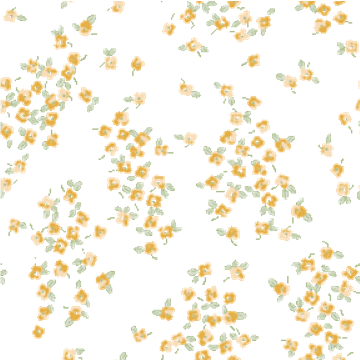
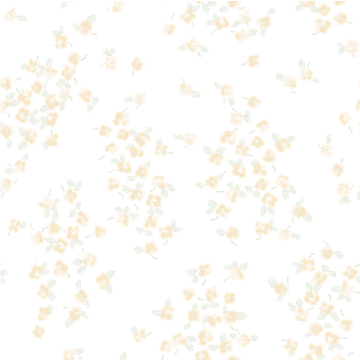
家田：画像の追加、読み込みなど

diff --git a/layouts/default.vue b/layouts/default.vue
@@ -8,22 +8,24 @@
         fixed
         app
       >
-        <v-list>
-          <v-list-item
-            v-for="(item, i) in items"
-            :key="i"
-            :to="item.to"
-            router
-            exact
-          >
-            <v-list-item-action>
-              <v-icon>{{ item.icon }}</v-icon>
-            </v-list-item-action>
-            <v-list-item-content>
-              <v-list-item-title v-text="item.title" />
-            </v-list-item-content>
-          </v-list-item>
-        </v-list>
+        <div class="drawer">
+          <v-list>
+            <v-list-item
+              v-for="(item, i) in items"
+              :key="i"
+              :to="item.to"
+              router
+              exact
+            >
+              <v-list-item-action>
+                <v-icon>{{ item.icon }}</v-icon>
+              </v-list-item-action>
+              <v-list-item-content>
+                <v-list-item-title v-text="item.title" />
+              </v-list-item-content>
+            </v-list-item>
+          </v-list>
+        </div>
       </v-navigation-drawer>
       <v-app-bar
         :clipped-left="clipped"
@@ -91,7 +93,14 @@ export default {
 
 <style lang="scss">
 .main {
+  color: $color-default;
   height: 100%;
   background-color: $color-main;
+}
+
+.drawer {
+  color: $color-default;
+  height: 100%;
+  background: top left / 360px repeat url('~assets/img/bg_flower_orange.png');
 }
 </style>

diff --git a/layouts/top.vue b/layouts/top.vue
@@ -8,22 +8,24 @@
         fixed
         app
       >
-        <v-list>
-          <v-list-item
-            v-for="(item, i) in items"
-            :key="i"
-            :to="item.to"
-            router
-            exact
-          >
-            <v-list-item-action>
-              <v-icon>{{ item.icon }}</v-icon>
-            </v-list-item-action>
-            <v-list-item-content>
-              <v-list-item-title v-text="item.title" />
-            </v-list-item-content>
-          </v-list-item>
-        </v-list>
+        <div class="drawer">
+          <v-list>
+            <v-list-item
+              v-for="(item, i) in items"
+              :key="i"
+              :to="item.to"
+              router
+              exact
+            >
+              <v-list-item-action>
+                <v-icon>{{ item.icon }}</v-icon>
+              </v-list-item-action>
+              <v-list-item-content>
+                <v-list-item-title v-text="item.title" />
+              </v-list-item-content>
+            </v-list-item>
+          </v-list>
+        </div>
       </v-navigation-drawer>
       <v-app-bar
         :clipped-left="clipped"
@@ -91,5 +93,11 @@ export default {
 .main {
   height: 100%;
   background-color: $color-main;
+}
+
+.drawer {
+  color: $color-default;
+  height: 100%;
+  background: top left / 360px repeat url('~assets/img/bg_flower_orange.png');
 }
 </style>

diff --git a/pages/index.vue b/pages/index.vue
@@ -1,6 +1,6 @@
 <template>
   <section>
-    <v-parallax src="https://cdn.vuetifyjs.com/images/backgrounds/vbanner.jpg">
+    <v-parallax src="img/dummy_mainvisual.jpg">
       <v-row align="center" justify="center">
         <v-col class="text-center" cols="12">
           <h1 class="display-1 font-weight-thin mb-4">
@@ -15,7 +15,7 @@
 
     <v-container>
       <!-- お店からのメッセージ -->
-      <v-card>
+      <v-card class="message">
         <dl>
           <dt>お店からのメッセージ</dt>
           <dd>
@@ -45,7 +45,7 @@
           >
             <Item class="itemList">
               <template v-slot:imgPath>
-                <img src="~/assets/img/dummy_square.png" alt>
+                <img src="~/assets/img/dummy_square.jpg" alt>
               </template>
               <template v-slot:name>
                 {{ item.name }}
@@ -82,6 +82,11 @@ export default {
 </script>
 
 <style scoped lang="scss">
+.message {
+  padding: 12px 16px;
+  color: $color-default;
+}
+
 .itemList {
   list-style: none;
   width: 100%;

diff --git a/assets/scss/_setting.scss b/assets/scss/_setting.scss
@@ -29,8 +29,9 @@ $easeInOutExpo: cubic-bezier(1, 0, 0, 1) !default;
 $easeInOutCirc: cubic-bezier(0.785, 0.135, 0.15, 0.86) !default;
 $easeInOutBack: cubic-bezier(0.68, -0.55, 0.265, 1.55) !default;
 
-$color-main: #fefbb7;
-$color-default: #544658;
-$color-accent: #d84d70;
-$color-shellpink: #f1ded1;
-$color-cyclamen: #eac2fb;
+// $color-main: hsl(57, 97, 86);
+$color-main: hsl(57, 97, 94);
+$color-default: hsl(287, 11, 25);
+$color-accent: hsl(345, 64, 57);
+$color-shellpink: hsl(24, 53, 88);
+$color-cyclamen: hsl(282, 88, 87);

diff --git a/nuxt.config.js b/nuxt.config.js
@@ -53,7 +53,7 @@ export default {
   ],
   styleResources: {
     scss: [
-      '~assets/scss/_setting.scss'
+      '~assets/scss/main.scss'
     ]
   },
   /*
@@ -69,9 +69,8 @@ export default {
   vuetify: {
     customVariables: ['~/assets/scss/variables.scss'],
     theme: {
-      dark: false,
       themes: {
-        dark: {
+        light: {
           primary: colors.blue.darken2,
           accent: colors.grey.darken3,
           secondary: colors.amber.darken3,
